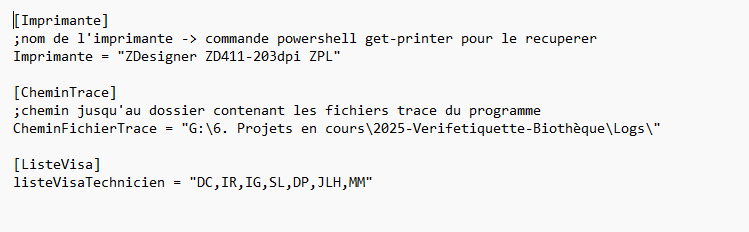
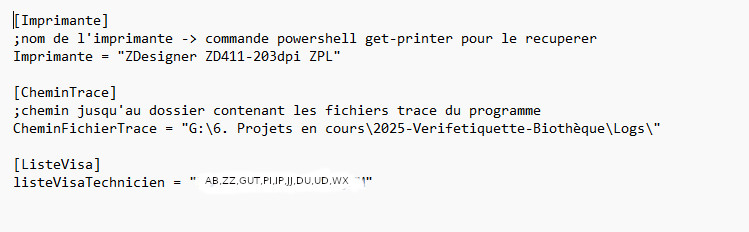
modification figure 1 et 2 privacy and text

Changed region(s): [[0.2457, 0.7543, 0.4913, 0.8147]]

diff --git a/script.js b/script.js
@@ -161,13 +161,13 @@ createApp({
 						"src": "./assets/images/verifetiquette_workflow.jpg",
 						"alt": "Figure 1: Workflow diagram of the paillette verification process",
 						"caption": "Figure 1: Workflow diagram of the paillette verification process",
-						"description": "This figure (1) represents the complete business process formalized through a workflow diagram, using standardized symbols to illustrate the verification sequence. Diamond shapes represent decision points where the program performs validation checks, while rectangular boxes indicate actions (both automated by the program and manual steps performed by technicians). Red boxes highlight error handling paths, and green boxes show success states.\n\nThis workflow documentation served multiple critical purposes. First, it transformed tacit knowledge into explicit, written protocol—the biobank had never formally documented this decanting process before. Technicians knew the steps intuitively, but without standardized procedures, variations and errors could occur. By creating this diagram, we established a reference protocol that could be used for training new staff and ensuring consistency.\n\nSecond, the workflow clarified exactly where automated verification would add value. Each diamond-shaped decision point represents a location where the program intervenes to prevent human error: verifying the technician's authorization, checking barcode format compliance, confirming code correspondence between form and paillettes, and validating the final label application.\n\nThird, this artifact facilitated communication with non-technical stakeholders. The biobank staff could visually understand the program's role in their daily operations without needing to read code. This shared understanding was essential for gathering accurate requirements and receiving meaningful feedback during iterative deployments.\n\nThe error handling strategy visible in the red boxes demonstrates defensive programming thinking applied at the process level. Rather than allowing the workflow to continue when discrepancies are detected, the system forces resolution—displaying explicit error messages and preventing progression until the issue is corrected. This prevents contaminated or mislabeled samples from entering storage, which could have serious consequences for patient safety in medical contexts.\n\nCreating this workflow required deep collaboration with domain experts to understand specialized terminology ('paillettes,' 'décantation,' 'cuve d'azote') and the physical constraints of working with cryogenic samples. It represents the intersection of project management (documenting processes), requirements analysis (understanding user needs), and system design (planning automated interventions)."
+						"description": "This figure (1) represents the complete business process formalized through a workflow diagram, using standardized symbols to illustrate the verification sequence. Diamond shapes represent decision points where the program performs validation checks, while rectangular boxes indicate actions (both automated by the program and manual steps performed by technicians). Red boxes highlight error handling paths, and green boxes show success states.\n\nThis workflow documentation served multiple critical purposes. First, it transformed tacit knowledge into explicit, written protocol—the biobank had never formally documented this decanting process before. Technicians knew the steps intuitively, but without standardized procedures, variations and errors could occur. By creating this diagram, we established a reference protocol that is ensuring consistency.\n\nSecond, the workflow clarified exactly where automated verification would add value. Each diamond-shaped decision point represents a location where the program intervenes to prevent human error: verifying the technician's authorization, checking barcode format compliance, confirming code correspondence between form and paillettes, and validating the final label application.\n\nThird, this artifact facilitated communication with non-technical stakeholders. This shared understanding was essential for gathering accurate requirements and receiving meaningful feedback during iterative deployments.\n\nThe error handling strategy visible in the red boxes demonstrates defensive programming thinking applied at the process level. Rather than allowing the workflow to continue when discrepancies are detected, the system forces resolution—displaying explicit error messages and preventing progression until the issue is corrected. This prevents contaminated or mislabeled samples from being sent to laboratories.\n\nCreating this workflow required collaboration with domain experts to understand specialized terminology ('paillettes,' 'décantation,' 'cuve d'azote') and the physical constraints of working with cryogenic samples. It represents the intersection of project management, requirements analysis, and system design (planning automated interventions)."
 					},
 					{
 						"src": "./assets/images/verifetiquette_ini.jpg",
 						"alt": "Figure 2: Configuration file structure using INI format",
 						"caption": "Figure 2: Configuration file structure using INI format",
-						"description": "This figure (2) shows the configuration file that separates environment-specific parameters from application logic. Three critical variables are defined: the printer name (Imprimante), the trace file directory path (CheminTrace), and the list of authorized technician visas (listeVisaTechnicien).\n\nInitially, these values were hardcoded directly in the PowerShell script. However, recognizing the need for maintainability—especially when printer settings, trace file locations, or authorized personnel might change—I implemented this configuration file approach following the separation of concerns principle.\n\nThis design decision allows non-technical biobank staff to modify parameters without editing code, reducing dependency on IT support for routine updates. For example, when a new technician joins the team, adding their initials to the visa list requires only a simple text file edit rather than script modification and redeployment.\n\nHowever, this implementation revealed a critical lesson during the third deployment. When the biobank requested that trace files be stored on a network drive with a path containing accented characters (e.g., 'Vérification'), the configuration file failed to parse correctly due to UTF-8 encoding issues. The main PowerShell script handled UTF-8 correctly, but I hadn't explicitly specified encoding when reading the INI file.\n\nThis was particularly challenging to diagnose because the error manifested as silent failure—trace files simply didn't appear in the expected location. We initially suspected network permission issues or path access problems. Only after systematic debugging did we discover the encoding mismatch.\n\nThe resolution required adding explicit UTF-8 encoding specification when reading the configuration file:\n```powershell\nGet-Content -Path $configFile -Encoding UTF8\n```\n\nThis experience taught me that character encoding must be explicitly considered in all file I/O operations, especially in internationalized environments where accented characters, special symbols, and diverse character sets are common. It's a detail often overlooked in academic projects where test data is typically ASCII-safe, but it becomes critical in real-world deployments.\n\nFurthermore, this incident highlighted the importance of environmental diversity in testing. My development environment happened to use paths without special characters, so the encoding issue never surfaced during testing. A more rigorous testing strategy would have included test cases with internationalized paths, special characters, and edge cases beyond typical usage patterns."
+						"description": "This figure (2) shows the configuration file that separates environment-specific parameters from application logic.\n\nInitially, these values (the printer'name, directory's path and the list of Technicien's Visa) were hardcoded directly in the PowerShell script. However, recognizing the need for maintainability—especially when printer settings, trace file locations, or authorized personnel might change—I implemented this configuration file approach following the separation of concerns principle. This design decision allows non-technical biobank staff to modify parameters without editing code, reducing dependency on IT support for routine updates.\n\nHowever, this implementation revealed a critical lesson during the third deployment. When the biobank requested that trace files be stored on a network drive with a path containing accented characters, the configuration file failed to parse correctly due to UTF-8 encoding issues. The main PowerShell script handled UTF-8 correctly, but I hadn't explicitly specified encoding when reading the INI file.\n\nThis was particularly challenging to diagnose because the error manifested as silent failure—trace files simply didn't appear in the expected location. We initially suspected network permission issues or path access problems. Only after systematic debugging did we discover the encoding mismatch.\n\nFurthermore, this incident highlighted the importance of environmental diversity in testing. My development environment happened to use paths without special characters, so the encoding issue never surfaced during testing. A more rigorous testing strategy would have included test cases with internationalized paths, special characters, and edge cases beyond typical usage patterns."
 					},
 					{
 						"src": "./assets/images/verifetiquette_visa_validation.jpg",
